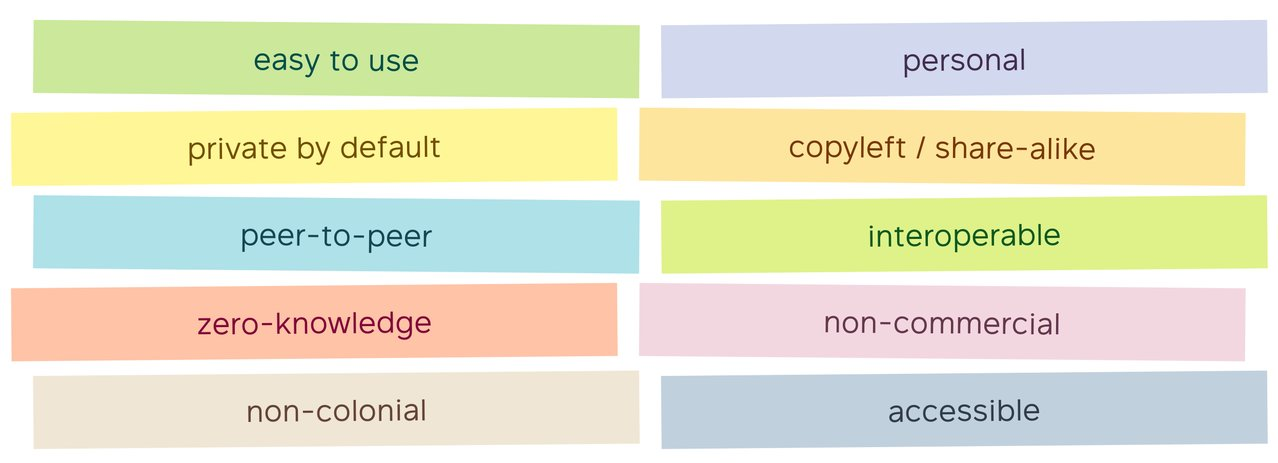
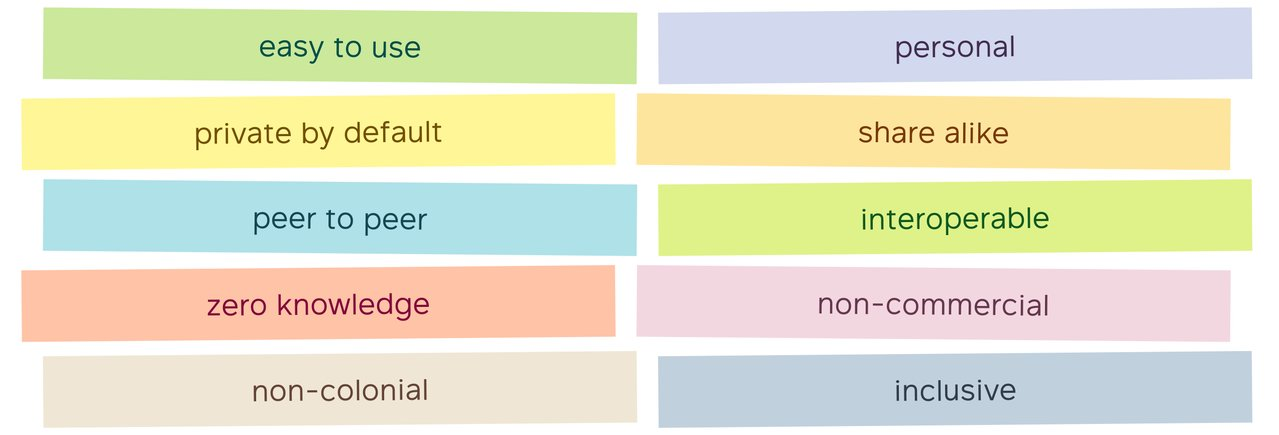
Update Small Technology principles/tenets

diff --git a/content/2019/08/26/introducing-small-technology-foundation/index.md b/content/2019/08/26/introducing-small-technology-foundation/index.md
@@ -31,7 +31,7 @@ We’ve also refined how we articulate both the problem and the solution we are 
 
 ## What is Small Technology?
 
-{{<figure src="small-technology-tenets.jpeg" alt="The tenets of Small Technology: easy to use, personal, private by default, copyleft / share-alike, peer-to-peer, interoperable, zero-knowledge, non-commercial, non-colonial, accessible" caption="The tenets of Small Technology." >}}
+{{<figure src="small-technology-tenets.jpeg" alt="The tenets of Small Technology: easy to use, personal, private by default, share alike, peer to peer, interoperable, zero knowledge, non-commercial, non-colonial, inclusive" caption="The tenets of Small Technology." >}}
 
 [Small Technology](https://small-tech.org/about#small-technology) are everyday tools for everyday people designed to increase human welfare, not corporate profits.
 
